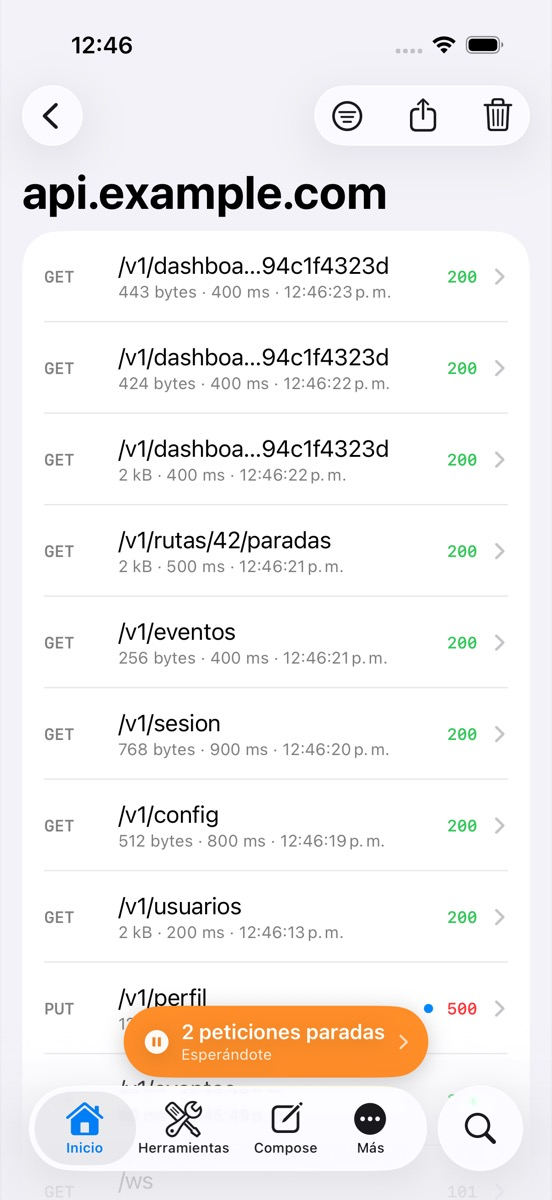
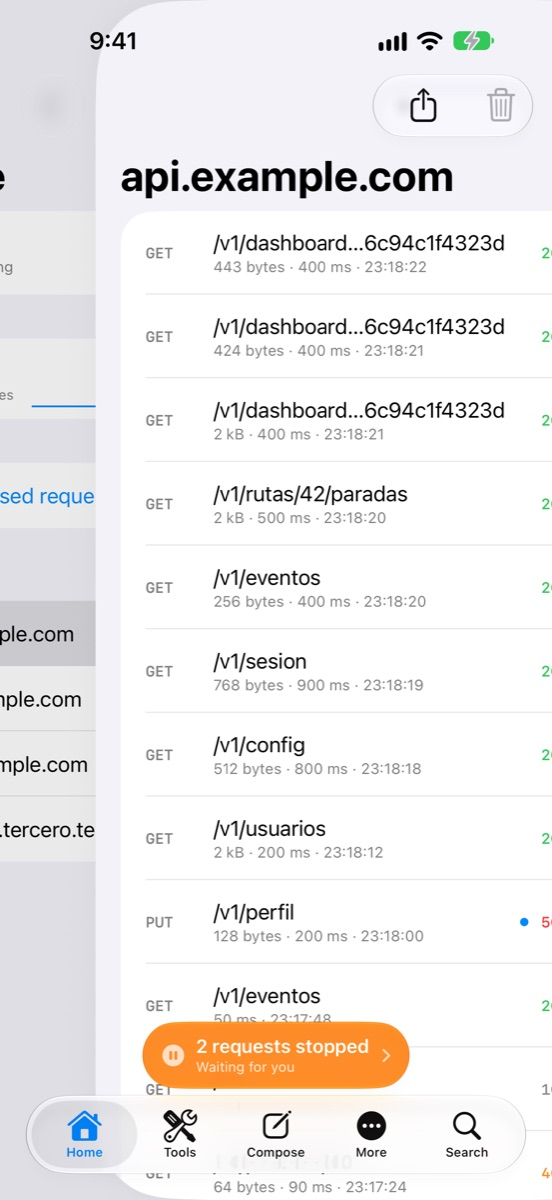
feat(sitio): capturas reales de iOS y Android

diff --git a/README.md b/README.md
@@ -80,9 +80,9 @@ pequeño: los enlaces usan `--red-ink`, que da 7:1 sobre el suelo.
 ## Capturas
 
 La galería de la portada lee `_data/screens.yml` y las imágenes de `assets/screens/`.
-Las cuatro de iOS que hay hoy son **provisionales**: salen de las capturas de referencia
-de la app iOS (`easyproxy-android/docs/ios-reference`). Se reemplazan por las de las fichas
-de App Store y Google Play cuando estén; las de Android se añaden en `android:`.
+Son capturas reales de las dos apps con datos de ejemplo: iOS desde `easyproxy/docs/screenshots/ios`
+(Maestro en el Simulador) y Android desde `easyproxy-android/docs/screenshots/android` (emulador),
+reducidas a 1200 px de alto en JPEG.
 
 ## Tiendas y plan
 
